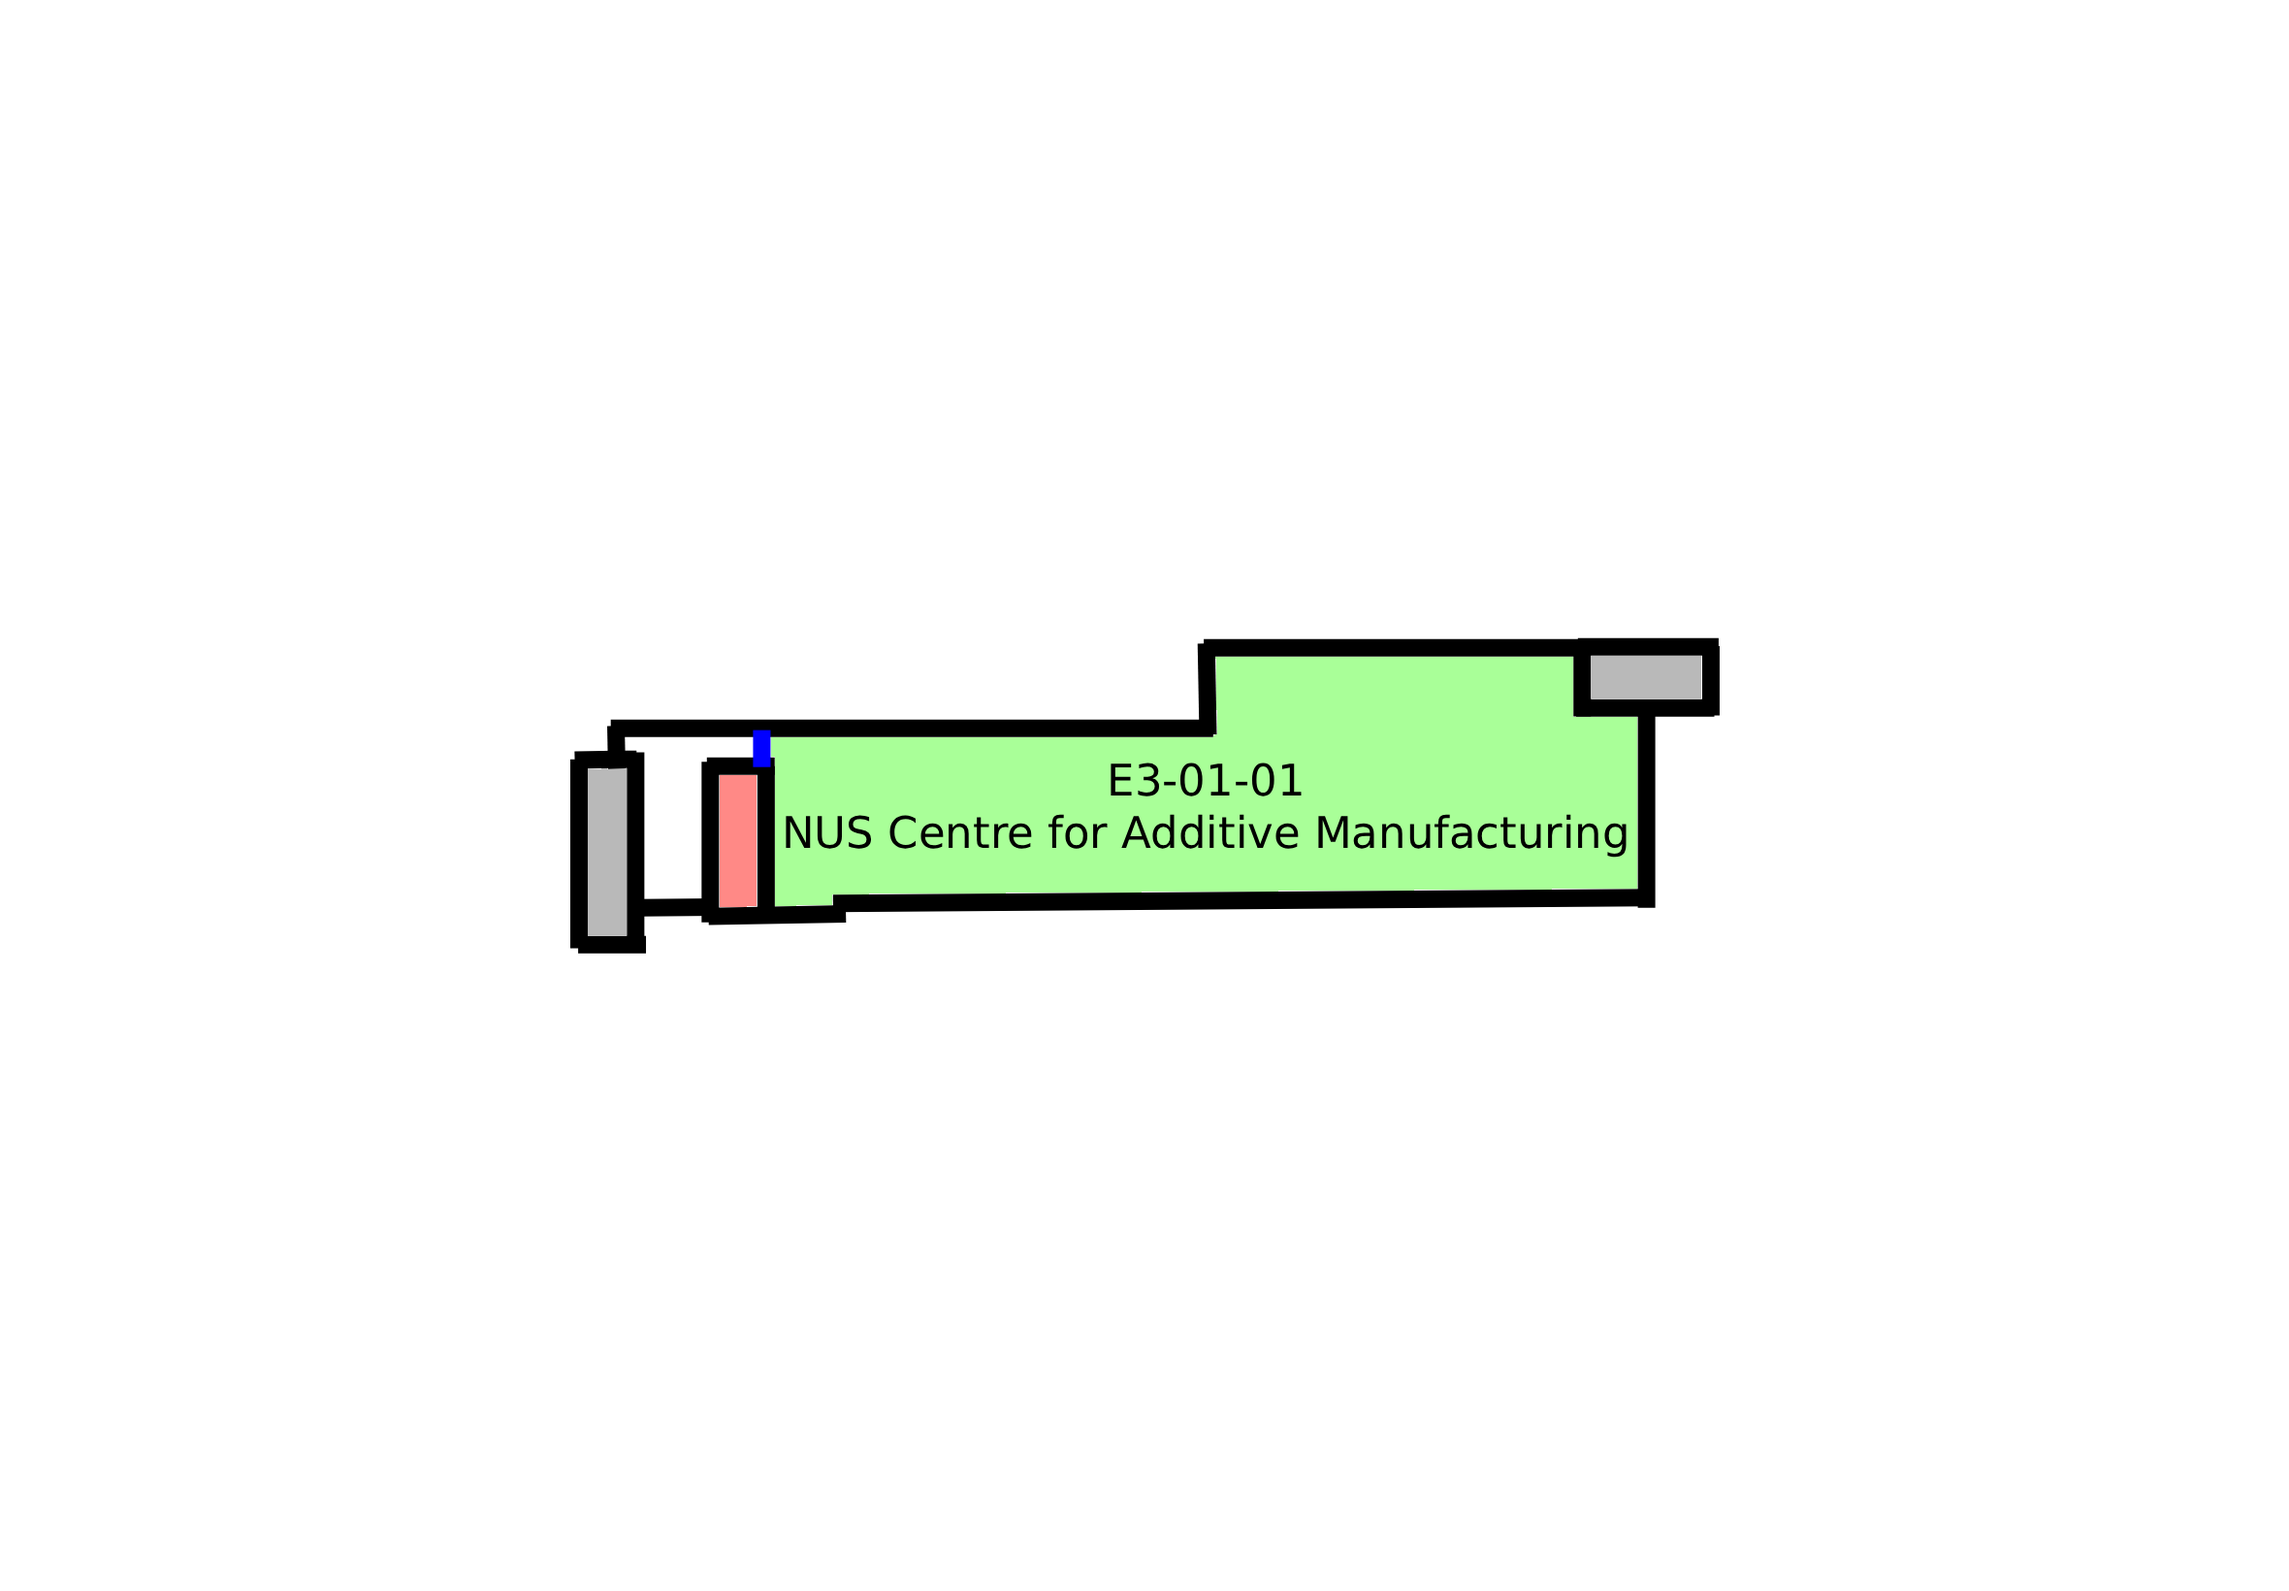
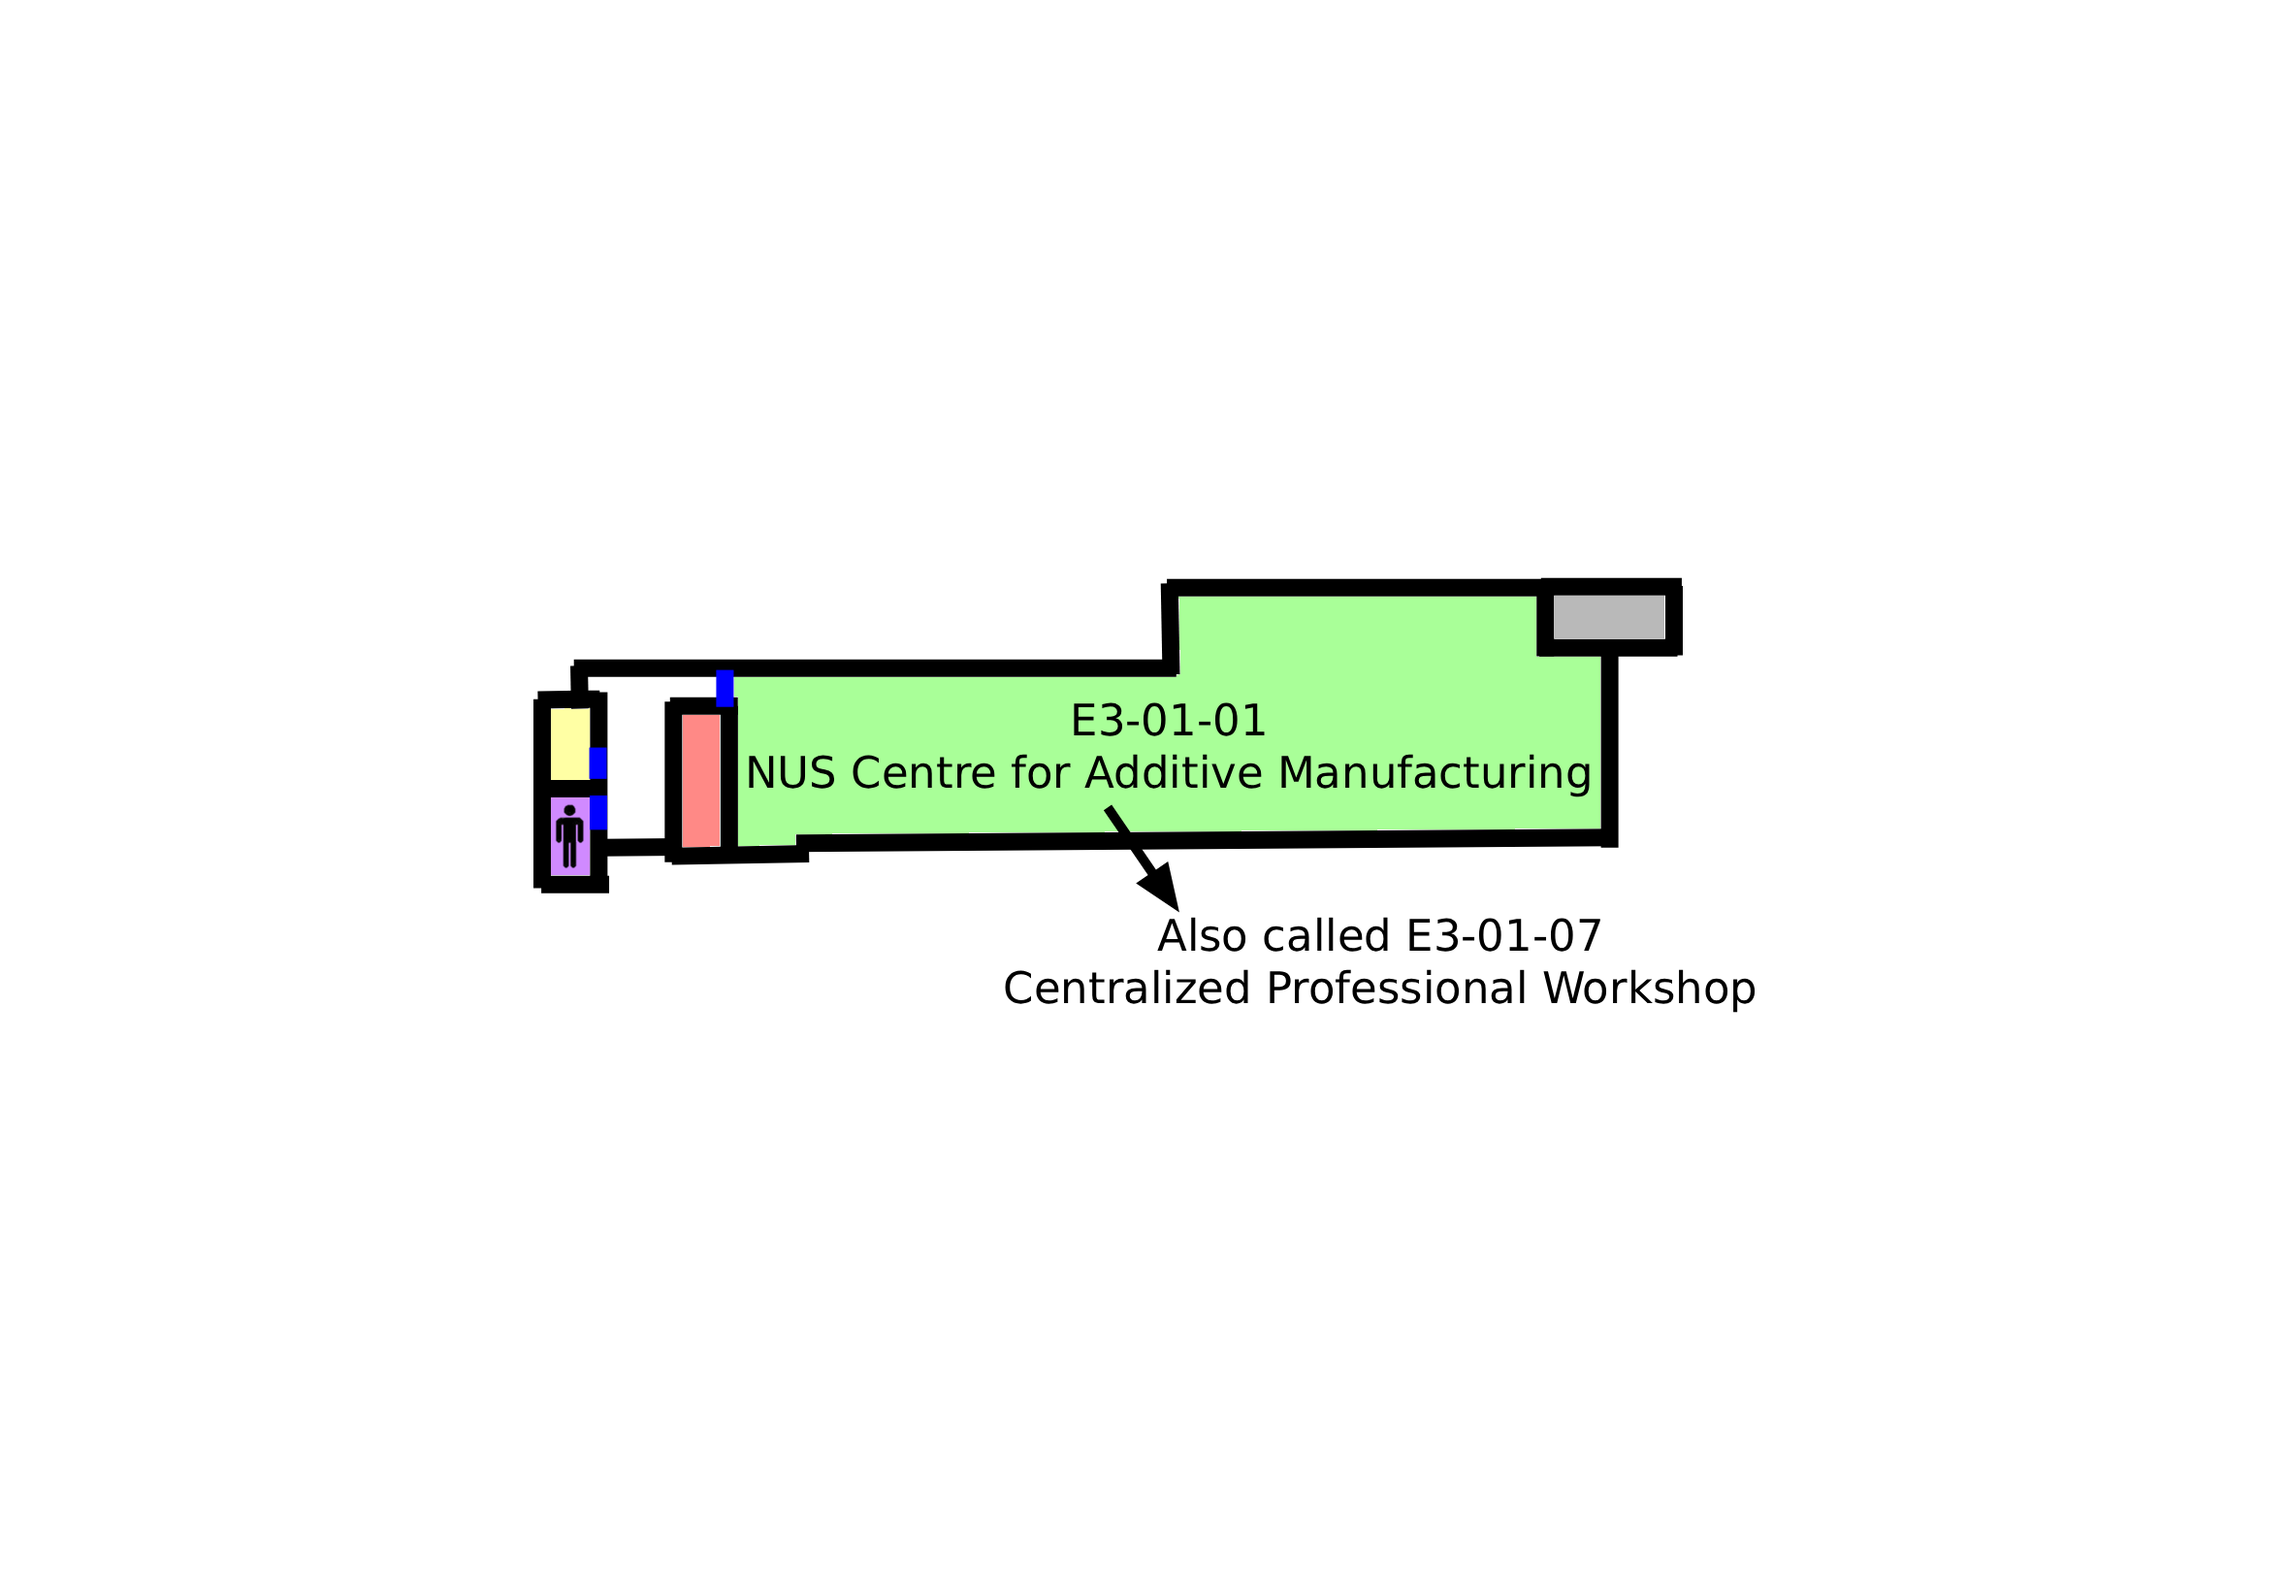
Map update for E3 E4 Techno_Edge

Changed region(s): [[0.2165, 0.3421, 0.7733, 0.653]]

diff --git a/Back-end/src/data/Techno_Edge.ts b/Back-end/src/data/Techno_Edge.ts
@@ -1,0 +1,57 @@
+import { Building } from './type';
+
+export const Techno_Edge: Building = {
+    name: "Techno_Edge",
+    floors: 4,
+    levels: {
+      "B1": {
+        image: "/TEB1.png",
+        bounds: [[0, 0], [1640, 2360]],
+        nodes: [
+          {id: "EA-01-lift1", x: 1740, y: 512},
+          {id: "EA-01-LT7A", x: 1736, y: 871}, ],  
+        edges: [
+          //lifts
+          {from: "EA-01-lift1", to: "EA-02-lift1", distance: 5000},
+          //forwards
+          {from: "EA-01-lift1", to: "EA-01-05/06", distance: 118},
+          {from: "EA-01-stairs2", to: "EA-01-Engineering Auditorium", distance: 189},]},
+
+      "01": {
+        image: "/TE01.png",
+        bounds: [[0, 0], [1640, 2360]],
+        nodes: [
+          {id: "EA-01-Engineering Auditorium", x: 1740, y: 512},
+          {id: "EA-01-LT7A", x: 1736, y: 871}, ],  
+        edges: [
+          //lifts
+          {from: "EA-01-lift1", to: "EA-02-lift1", distance: 5000},
+          //forwards
+          {from: "EA-01-lift1", to: "EA-01-05/06", distance: 118},
+          {from: "EA-01-stairs2", to: "EA-01-Engineering Auditorium", distance: 189},]},
+"02": {
+        image: "/TE02.png",
+        bounds: [[0, 0], [1640, 2360]],
+        nodes: [
+          {id: "EA-01-Engineering Auditorium", x: 1740, y: 512},
+          {id: "EA-01-LT7A", x: 1736, y: 871}, ],  
+        edges: [
+          //lifts
+          {from: "EA-01-lift1", to: "EA-02-lift1", distance: 5000},
+          //forwards
+          {from: "EA-01-lift1", to: "EA-01-05/06", distance: 118},
+          {from: "EA-01-stairs2", to: "EA-01-Engineering Auditorium", distance: 189},]},
+"03": {
+        image: "/TE03.png",
+        bounds: [[0, 0], [1640, 2360]],
+        nodes: [
+          {id: "EA-01-Engineering Auditorium", x: 1740, y: 512},
+          {id: "EA-01-LT7A", x: 1736, y: 871}, ],  
+        edges: [
+          //lifts
+          {from: "EA-01-lift1", to: "EA-02-lift1", distance: 5000},
+          //forwards
+          {from: "EA-01-lift1", to: "EA-01-05/06", distance: 118},
+          {from: "EA-01-stairs2", to: "EA-01-Engineering Auditorium", distance: 189}
+        ]}  }
+};

diff --git a/Back-end/src/data/E3.ts b/Back-end/src/data/E3.ts
@@ -5,7 +5,7 @@ export const E3: Building = {
     floors: 6,
     levels: {
         "01":{
-        image: "/E3L1.png",
+        image: "/E301.png",
         bounds: [[0, 0], [1640, 2360]],
         nodes: [
             {id: "E3-01-lift1", x: 893, y:1102},
